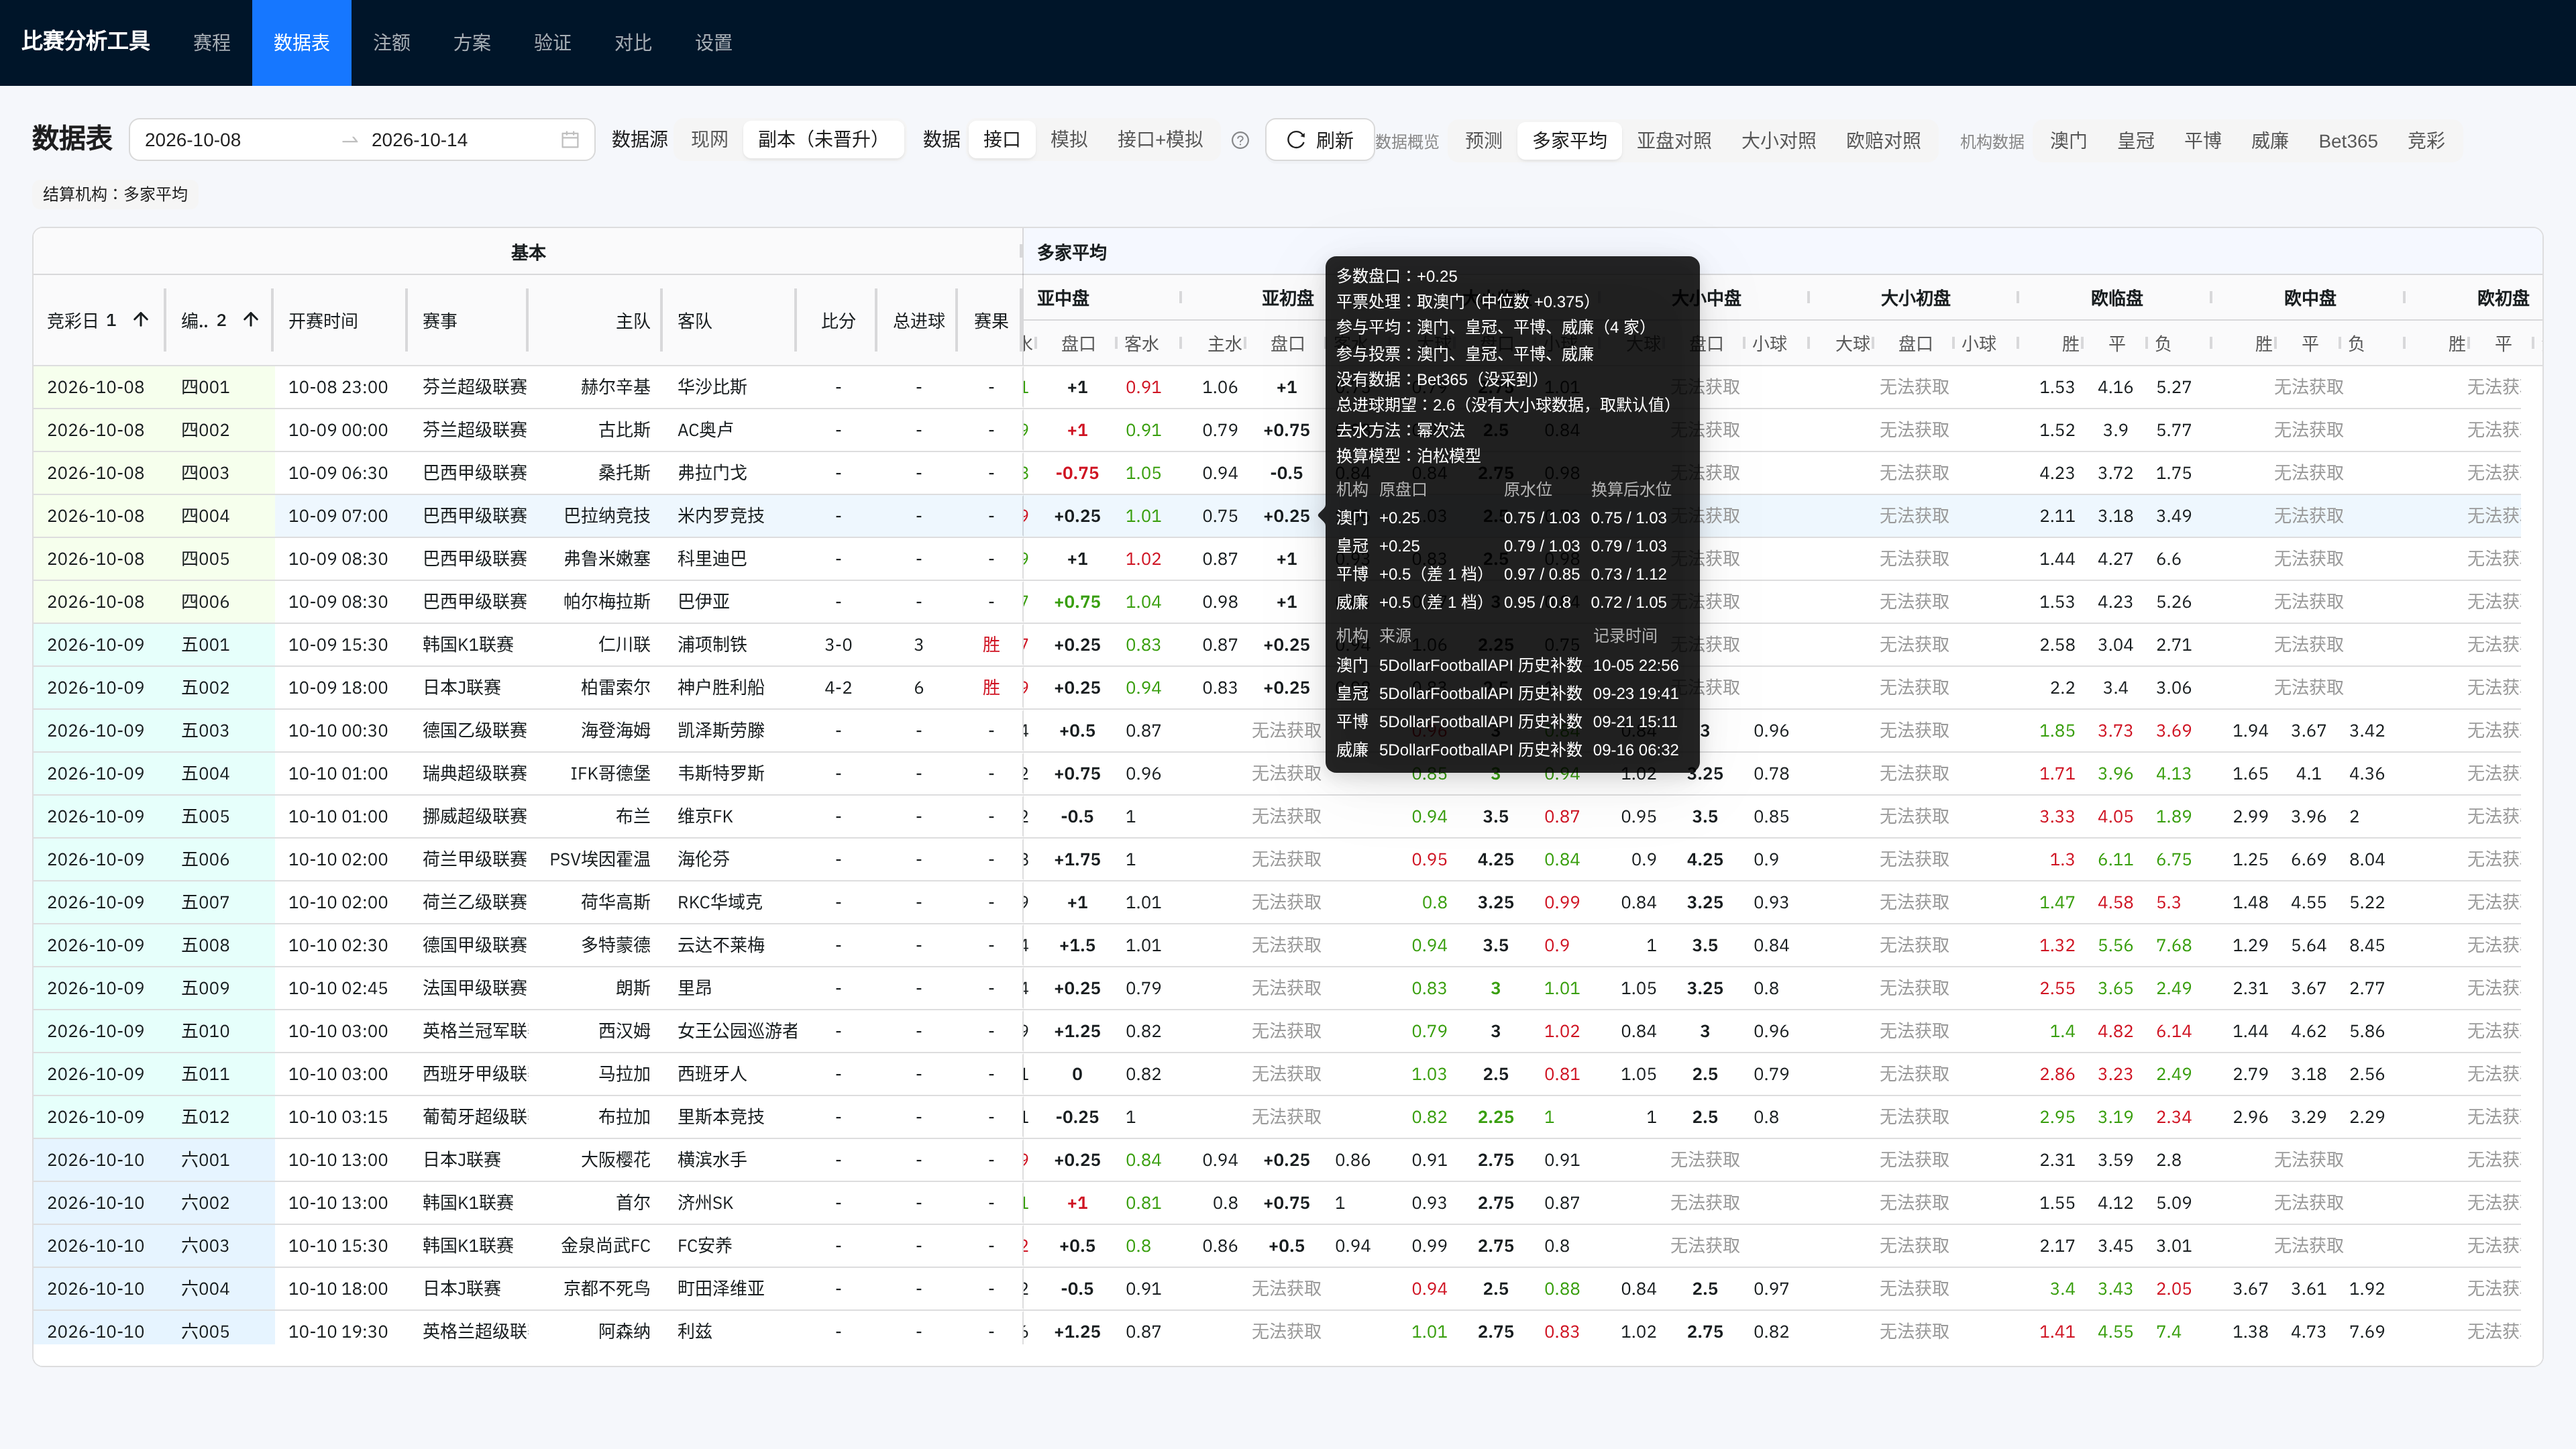
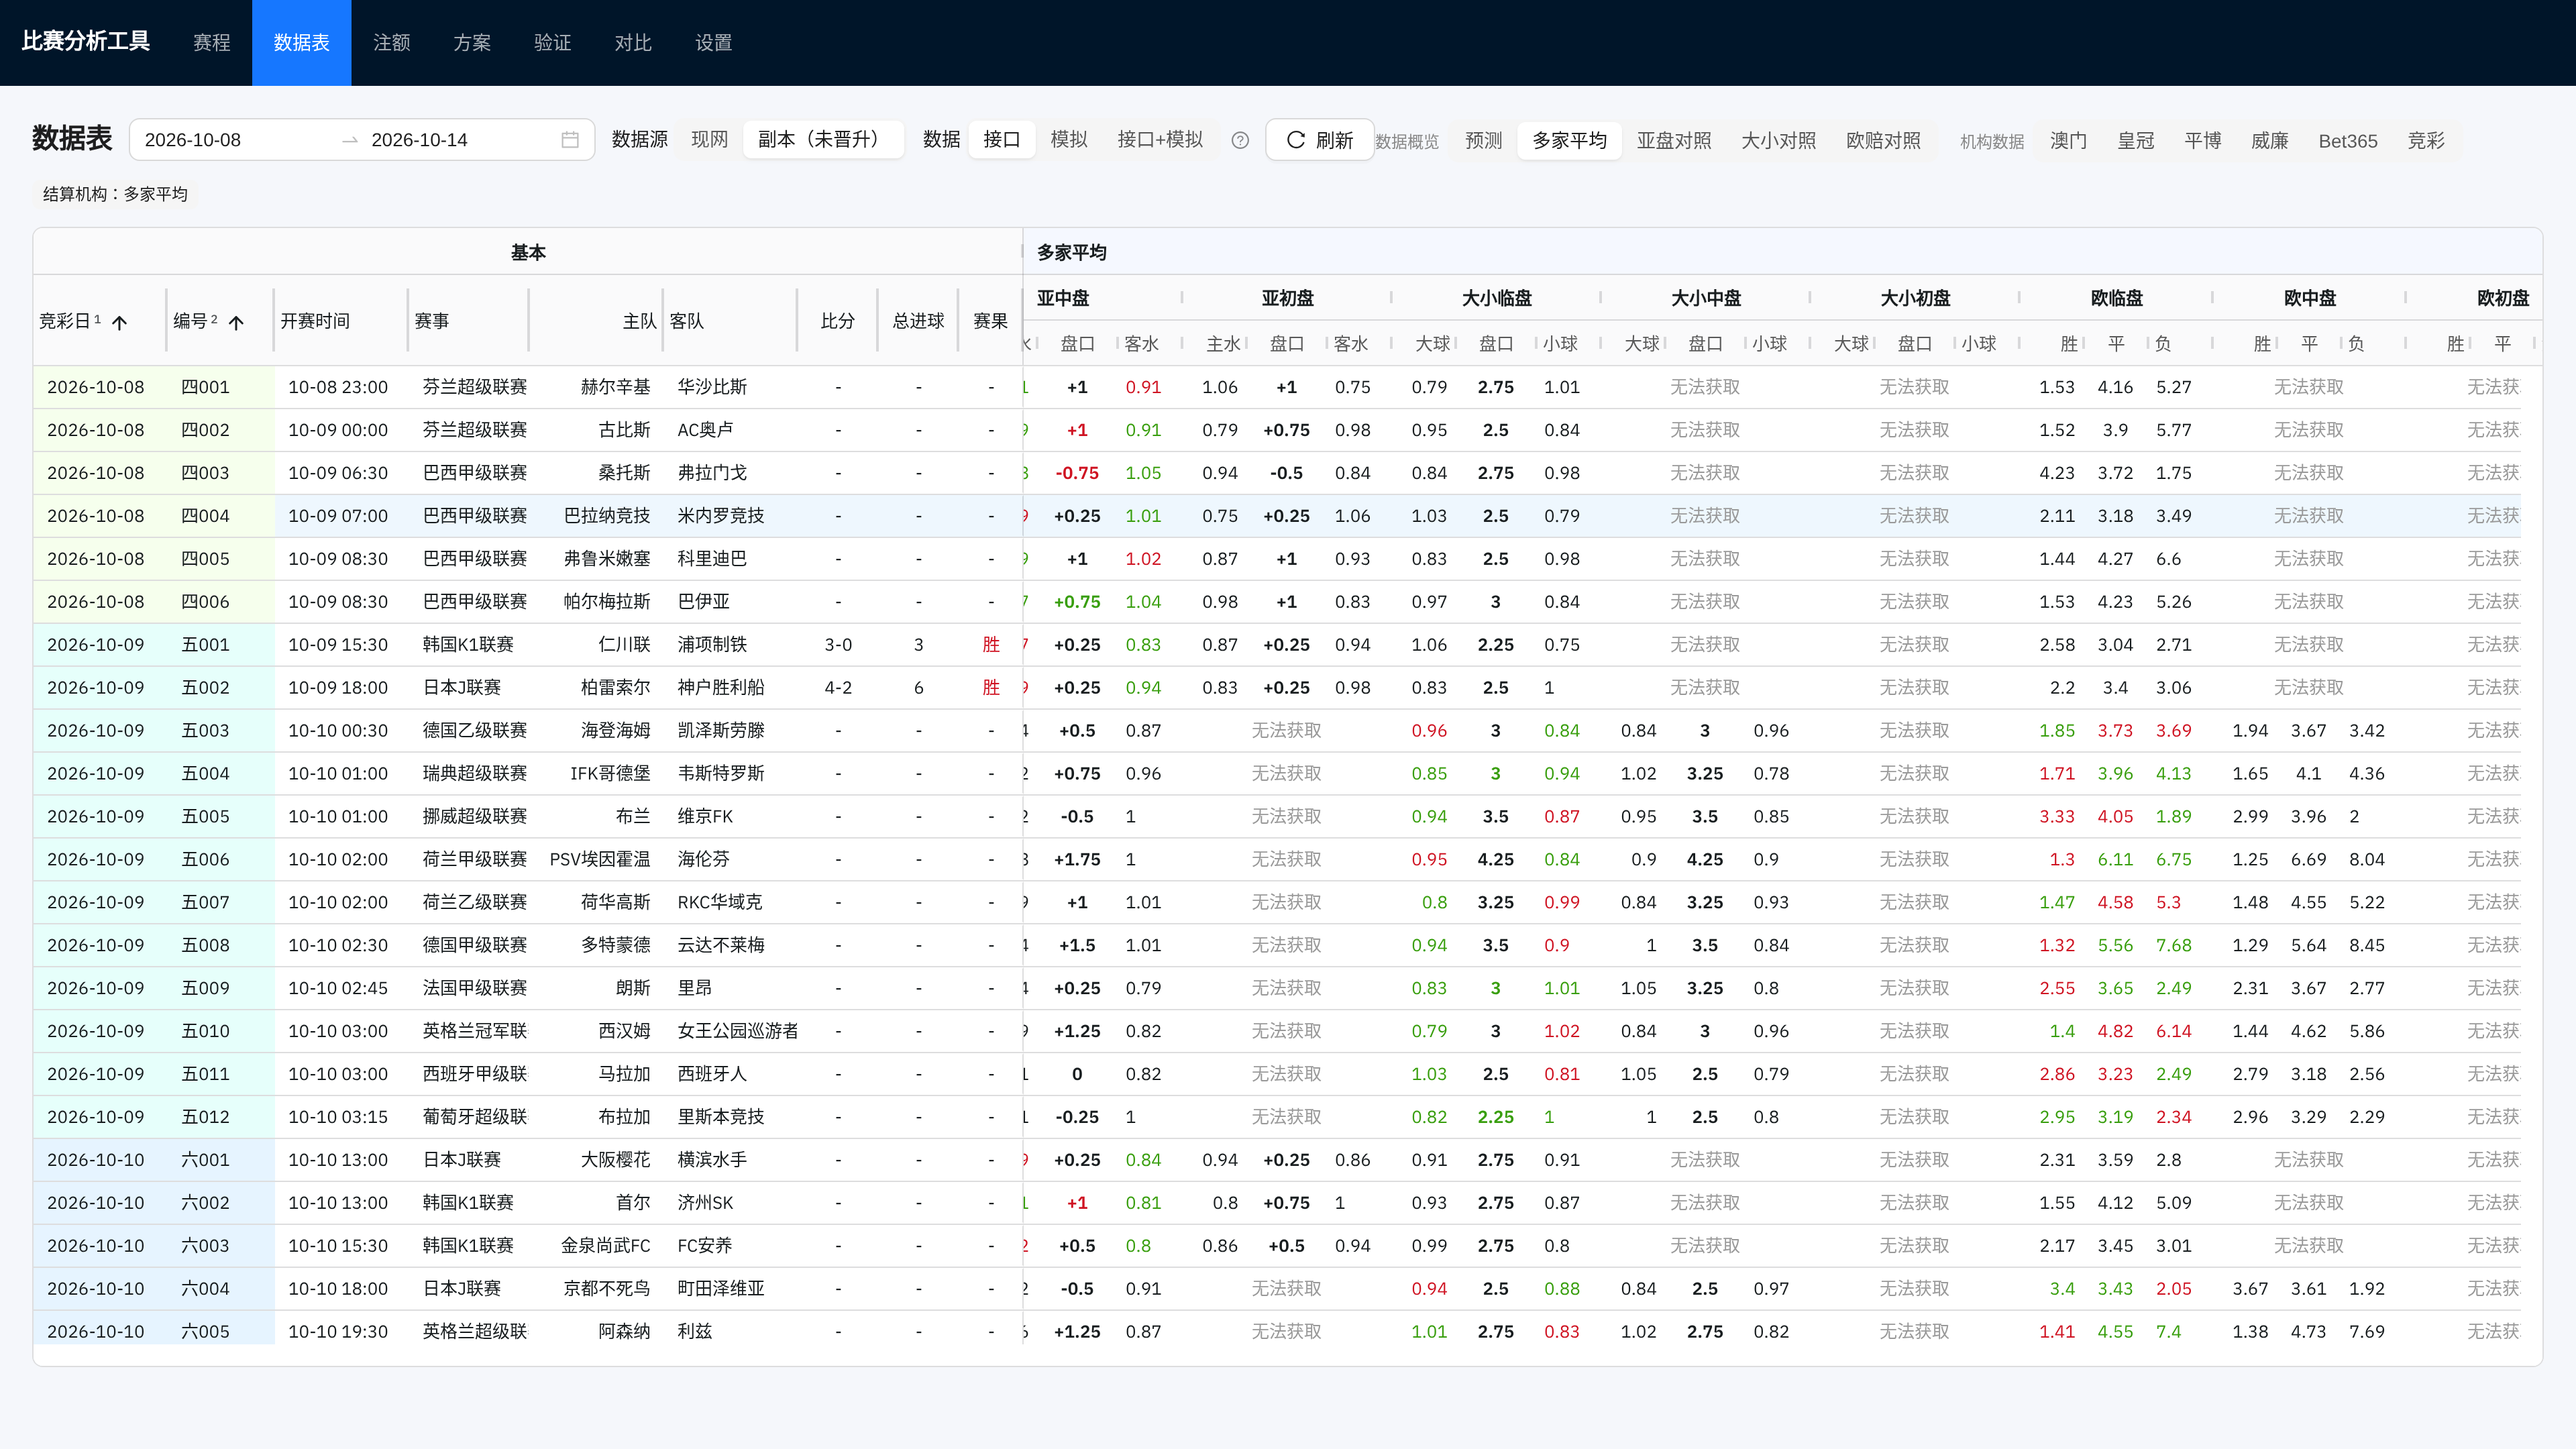
web/sheet2: source codes per contract 7.8 (path-style fallback), alert colors per hl_v0, compact header sort indicator + header tooltips, header separator aligned to column border; re-shoot phase-2 screenshots on 8789

diff --git a/web/src/sheet2/format.ts b/web/src/sheet2/format.ts
@@ -98,9 +98,37 @@ export function bjTime(iso: string | null | undefined): string {
   const p = (n: number) => String(n).padStart(2, '0')
   return `${p(b.getUTCMonth() + 1)}-${p(b.getUTCDate())} ${p(b.getUTCHours())}:${p(b.getUTCMinutes())}`
 }
+/** 来源代码中文名（约定 7.8） */
 export const SOURCE_TEXT: Record<string, string> = {
-  '5df_live_opening': '5DollarFootballAPI 开盘数据',
-  '5df_live': '5DollarFootballAPI 实时采集',
-  '5df_hist_asof_full': '5DollarFootballAPI 历史补数',
+  '5df_live_opening': '开盘数据',
+  '5df_live': '实时采集',
+  '5df_hist_asof_full': '历史补数',
+  '5df_hist_asof': '时点补数',
+  '5df_macauslot_history': '澳门历史补数',
+  '5dollar_history': '早期历史补数',
+  '5df_odds_snap': '欧赔快照补数',
+  legacy_import: '旧手工录入',
+  '5df': '澳门 5DollarFootballAPI 列',
+  avg: '多家平均',
 }
-export const sourceText = (s: string | null | undefined): string => (s ? (SOURCE_TEXT[s] ?? (s.startsWith('5df') ? `5DollarFootballAPI（${s}）` : s)) : '未知')
+/**
+ * 来源显示：新写法是来源代码，查上表；后端统一之前仍可能是「表名/通道/点位」的取数路径，按前缀显示（约定 7.8）。
+ * 不认识的原样显示。source_path 字段页面不读。
+ */
+export function sourceText(s: string | null | undefined): string {
+  if (!s) return '不详'
+  if (SOURCE_TEXT[s]) return SOURCE_TEXT[s]
+  if (s.startsWith('odds_timeline_seg/')) {
+    const c = s.slice('odds_timeline_seg/'.length)
+    return `盘口时间线（${SOURCE_TEXT[c] ?? c}）`
+  }
+  if (s.startsWith('odds_snapshot/')) {
+    const ch = s.split('/')[1]
+    return ch === 'rule' ? '快照表（规则采集）' : ch === 'actual' ? '快照表（实际采集时刻）' : '快照表'
+  }
+  if (s.startsWith('odds_asian')) return '旧结算盘口表'
+  if (s.includes('(home_only)')) return '只有主胜的旧记录'
+  if (s.startsWith('odds_jc_had')) return '竞彩胜平负记录'
+  if (s.startsWith('5df_odds_history/chinasportslottery')) return '竞彩历史补数'
+  return s
+}

diff --git a/web/src/sheet2/sheet2.css b/web/src/sheet2/sheet2.css
@@ -14,9 +14,9 @@
 .sheet2 .wd-5 { background: #e6fffb; }
 .sheet2 .wd-6 { background: #e6f4ff; }
 .sheet2 .wd-7 { background: #f9f0ff; }
-.sheet2 .al-light { background: #fffbe6; }
-.sheet2 .al-medium { background: #ffe7ba; }
-.sheet2 .al-high { background: #ffccc7; }
+.sheet2 .al-light { background: #fff1b8; } /* 与 hl_v0 一致：gold-2 */
+.sheet2 .al-medium { background: #ffd591; } /* orange-3 */
+.sheet2 .al-high { background: #ffa39e; } /* red-3 */
 .sheet2 .f-win { background: #ff7875; color: #fff; }
 .sheet2 .f-winhalf { background: #ffccc7; }
 .sheet2 .f-losehalf { background: #d9f7be; }
@@ -49,3 +49,14 @@
 .sheet2 .ag-header-cell.al-center .ag-header-cell-label { justify-content: center; }
 .sheet2 .ag-header-cell.al-left .ag-header-cell-label { justify-content: flex-start; }
 .sheet2 .ag-cell.span-status { justify-content: center; }
+
+/* 表头不撑列宽：排序标记缩小、间距收紧，排序序号用小号字；放不下的表头省略，悬停显示全名（用户 2026-10-14 定） */
+.sheet2 .ag-header-cell { padding-left: 4px; padding-right: 4px; }
+.sheet2 .ag-header-cell-label { min-width: 0; overflow: hidden; }
+.sheet2 .ag-header-cell-text { overflow: hidden; text-overflow: ellipsis; min-width: 0; flex: 0 1 auto; }
+.sheet2 .ag-sort-indicator-container { flex: none; padding-left: 1px; }
+.sheet2 .ag-sort-indicator-icon { padding-left: 0; margin-left: 1px; }
+.sheet2 .ag-sort-indicator-icon .ag-icon { font-size: 11px; width: 11px; height: 11px; }
+.sheet2 .ag-sort-order { font-size: 9px; padding-left: 1px; margin-left: 0; opacity: .75; }
+/* 表头分隔竖线：AG Grid 默认画在拖拽区内 2–4px，比单元格右边框（列边界前 1px）偏左；右移 1px，使竖线右缘与列边界对齐 */
+.sheet2 .ag-header-cell-resize::after { left: 3px; }

diff --git a/web/src/pages/SheetPage.tsx b/web/src/pages/SheetPage.tsx
@@ -69,6 +69,11 @@ function orderBooks(def: Book[]): Book[] {
   const rest = ab.filter((b) => b !== 'avg')
   return [...(def.includes('avg') ? (['avg'] as Book[]) : []), ...rest, ...def.filter((b) => b !== 'avg' && !rest.includes(b))]
 }
+/** 每个表头都带悬停全名，表头被省略时也能看到 */
+// eslint-disable-next-line @typescript-eslint/no-explicit-any
+function withHeaderTips(cols: any[]): any[] {
+  return cols.map((c) => ({ ...c, headerTooltip: c.headerTooltip ?? c.headerName, ...(c.children ? { children: withHeaderTips(c.children) } : {}) }))
+}
 const LS_BOOK = 'sheet2.predBook.v1'
 const lsResultOnly = (t: TabId) => `sheet2.resultOnly.v1.${t}`
 const readBool = (k: string) => {
@@ -157,7 +162,7 @@ export default function SheetPage() {
       for (const b of orderBooks(CMP_BOOKS)) cols.push(bookCols(b, [cmpMarket], ro))
       if (cmpMarket === 'x1x2') cols.push(jcCols(true, true))
     } else if (lockedBook) cols.push(predCols(lockedBook, ['ah', 'ou', 'x1x2', 'jc']), bookCols(lockedBook))
-    return cols
+    return withHeaderTips(cols)
   }, [tab, settleBook, cmpMarket, ro, lockedBook, rows])
 
   const showBookSelect = tab === 'predict' || !!cmpMarket
